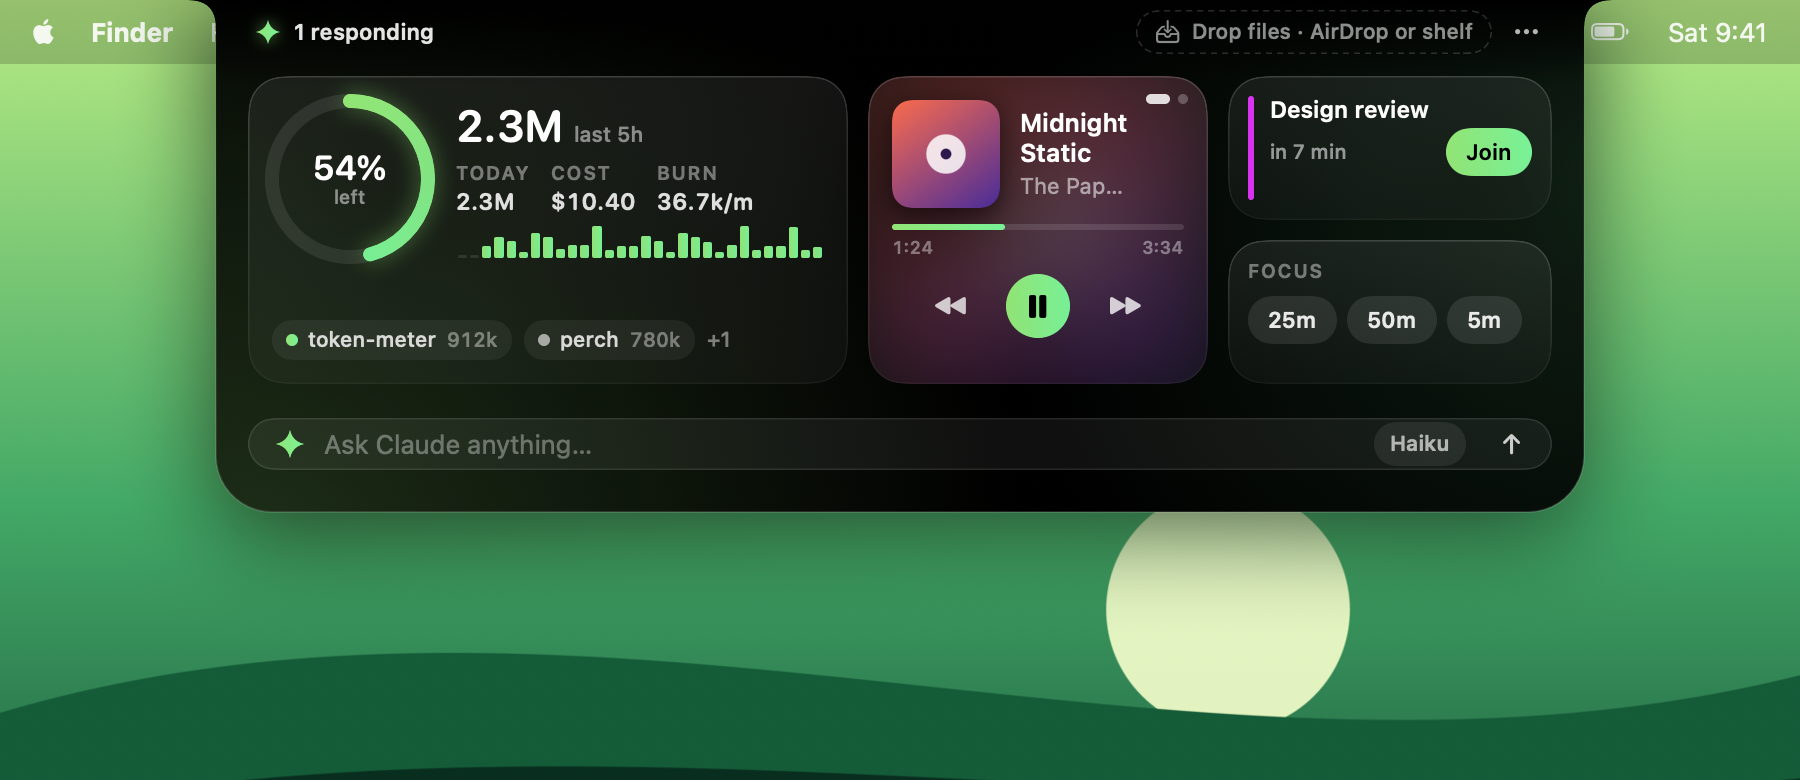
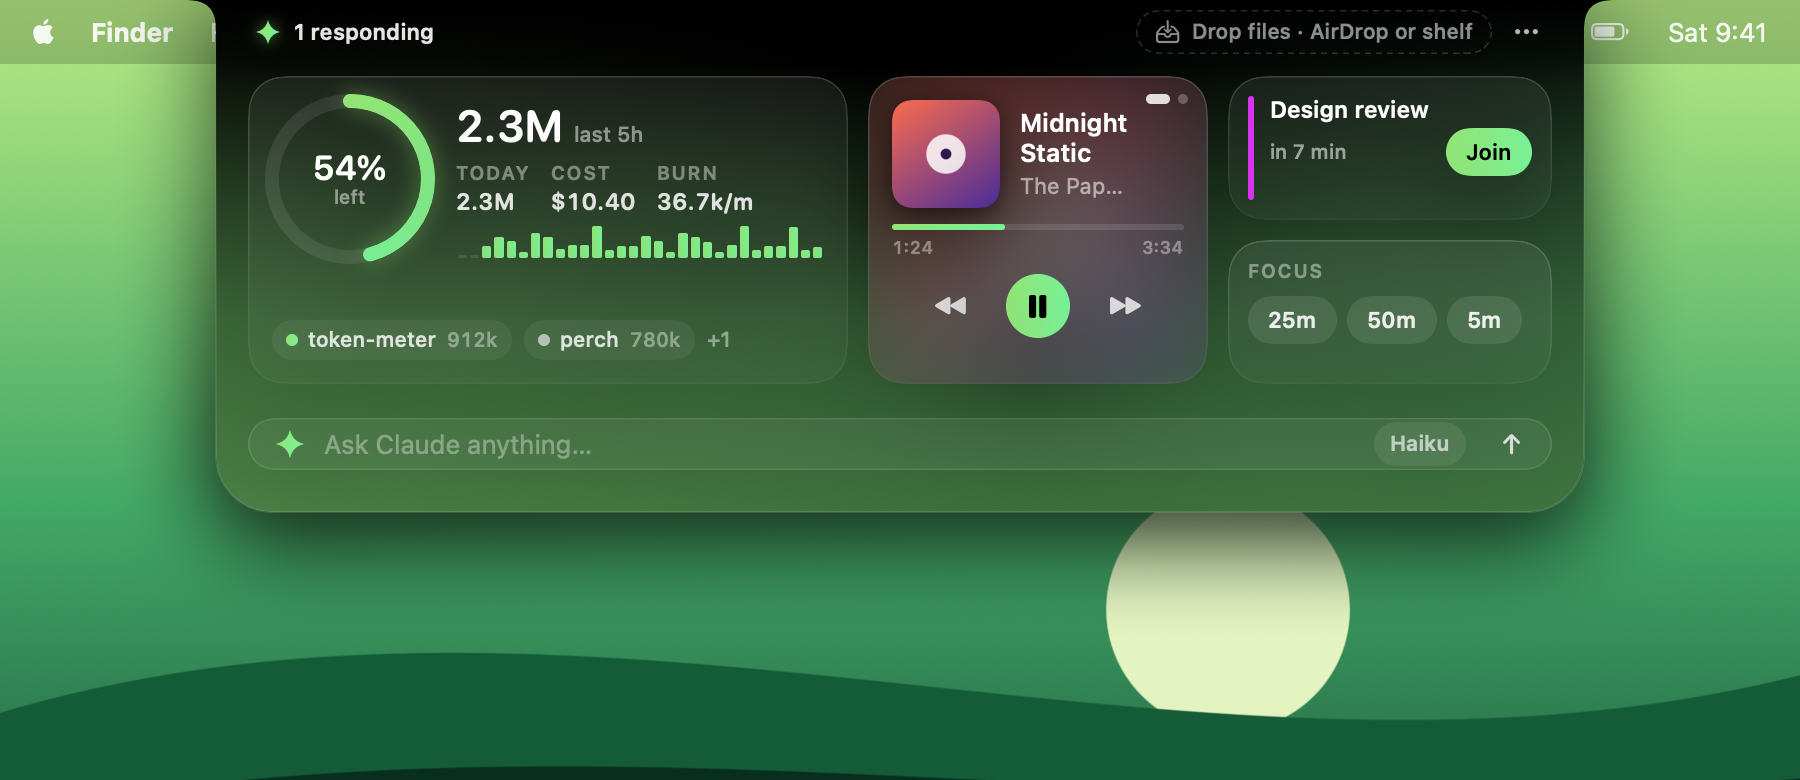
Auto theme: the open notch fades into the wallpaper's colour
Auto only recoloured small accents, so the open notch stayed black and
didn't look like it matched the desktop. It now stays black around the
hardware notch and fades into the wallpaper's own colour (the average of
the area just below the open notch, kept dark enough for white text)
toward its bottom edge. The closed notch stays black.

Build: assemble and sign the app in a temp folder. On an iCloud-synced
Desktop, Finder metadata lands on the new bundle between xattr -cr and
codesign, which then refuses it.

diff --git a/Sources/Perch/AutoPalette.swift b/Sources/Perch/AutoPalette.swift
@@ -10,6 +10,9 @@ final class AutoPalette {
 
     private(set) var accent = Color(red: 1.00, green: 0.55, blue: 0.32)
     private(set) var accent2 = Color(red: 1.00, green: 0.30, blue: 0.45)
+    /// The wallpaper's own colour just below the open notch (its average, kept dark enough for white text).
+    /// The open notch fades into it so it melts into the desktop.
+    private(set) var surface = Color(red: 0.16, green: 0.10, blue: 0.08)
 
     /// Whether the person picked a theme themselves (Auto included). Auto only reads a
     /// wallpaper kept in Desktop, Documents or Downloads when they chose it, because
@@ -48,11 +51,11 @@ final class AutoPalette {
         guard key != lastKey else { return }
         lastKey = key
         queue.async {
-            let pair = Self.palette(from: url)
+            let colors = Self.palette(from: url)
             DispatchQueue.main.async {
                 MainActor.assumeIsolated {
-                    guard let pair else { return self.useSystemAccent() }
-                    self.apply(pair.0, pair.1)
+                    guard let colors else { return self.useSystemAccent() }
+                    self.apply(colors)
                 }
             }
         }
@@ -63,29 +66,33 @@ final class AutoPalette {
         lastKey = "system"
         let c = NSColor.controlAccentColor.usingColorSpace(.deviceRGB) ?? .systemBlue
         let hsb = HSB(h: c.hueComponent, s: c.saturationComponent, b: c.brightnessComponent)
-        apply(Self.vivid(hsb), Self.vivid(HSB(h: (hsb.h + 0.08).truncatingRemainder(dividingBy: 1), s: hsb.s, b: hsb.b), second: true))
+        apply(Colors(a: Self.vivid(hsb), b: Self.vivid(HSB(h: (hsb.h + 0.08).truncatingRemainder(dividingBy: 1), s: hsb.s, b: hsb.b), second: true),
+                     surface: Self.surface(HSB(h: hsb.h, s: hsb.s * 0.6, b: 0.3))))
     }
 
-    private func apply(_ a: HSB, _ b: HSB) {
-        withAnimation(.easeInOut(duration: 0.9)) { set(a, b) }
+    private func apply(_ c: Colors) {
+        withAnimation(.easeInOut(duration: 0.9)) { set(c) }
     }
 
     /// Sets the colours directly (snapshots render from a sample wallpaper).
-    func set(_ a: HSB, _ b: HSB) {
-        accent = Color(hue: a.h, saturation: a.s, brightness: a.b)
-        accent2 = Color(hue: b.h, saturation: b.s, brightness: b.b)
+    func set(_ c: Colors) {
+        accent = Color(hue: c.a.h, saturation: c.a.s, brightness: c.a.b)
+        accent2 = Color(hue: c.b.h, saturation: c.b.s, brightness: c.b.b)
+        surface = Color(hue: c.surface.h, saturation: c.surface.s, brightness: c.surface.b)
     }
 
     /// Takes the colours from a picture, as `update()` does from the wallpaper. False if it has none to give.
     @discardableResult func set(from image: NSImage) -> Bool {
-        guard let cg = image.cgImage(forProposedRect: nil, context: nil, hints: nil), let pair = Self.palette(from: cg) else { return false }
-        set(pair.0, pair.1)
+        guard let cg = image.cgImage(forProposedRect: nil, context: nil, hints: nil), let c = Self.palette(from: cg) else { return false }
+        set(c)
         return true
     }
 
     // MARK: Colour extraction (pure, testable, runs off the main thread)
 
     struct HSB: Equatable { var h: Double; var s: Double; var b: Double }
+    /// Two accents and the surface colour.
+    struct Colors: Equatable { var a: HSB; var b: HSB; var surface: HSB }
 
     nonisolated static func isProtected(_ url: URL) -> Bool {
         let home = FileManager.default.homeDirectoryForCurrentUser.path
@@ -93,7 +100,7 @@ final class AutoPalette {
         return protected.contains { url.path.hasPrefix($0) } || url.path.hasPrefix("/Volumes/")
     }
 
-    nonisolated static func palette(from url: URL) -> (HSB, HSB)? {
+    nonisolated static func palette(from url: URL) -> Colors? {
         guard let src = CGImageSourceCreateWithURL(url as CFURL, nil),
               let img = CGImageSourceCreateThumbnailAtIndex(src, 0, [kCGImageSourceCreateThumbnailFromImageAlways: true,
                                                                       kCGImageSourceCreateThumbnailWithTransform: true,
@@ -104,7 +111,7 @@ final class AutoPalette {
 
     /// Dominant hues of the top-centre strip (where the menu bar and notch sit), falling
     /// back to the whole picture when that strip is grey.
-    nonisolated static func palette(from img: CGImage) -> (HSB, HSB)? {
+    nonisolated static func palette(from img: CGImage) -> Colors? {
         let w = img.width, h = img.height
         guard w > 0, h > 0 else { return nil }
         var px = [UInt8](repeating: 0, count: w * h * 4)
@@ -118,9 +125,30 @@ final class AutoPalette {
         guard drawn else { return nil }
         // Row 0 of the buffer is the top of the picture.
         let top = histogram(px, w: w, rows: 0..<max(1, h * 35 / 100), cols: (w * 20 / 100)..<max(w * 20 / 100 + 1, w * 80 / 100))
-        if let pair = pick(top) { return pair }
+        // The open notch reaches about a quarter to a third of the way down the screen: blend toward what's there.
+        let under = surface(average(px, w: w, rows: (h * 20 / 100)..<max(h * 20 / 100 + 1, h * 40 / 100),
+                                    cols: (w * 25 / 100)..<max(w * 25 / 100 + 1, w * 75 / 100)))
+        if let pair = pick(top) { return Colors(a: pair.0, b: pair.1, surface: under) }
         let all = histogram(px, w: w, rows: 0..<h, cols: 0..<w)
-        return pick(all) ?? neutral(all)
+        let pair = pick(all) ?? neutral(all)
+        return Colors(a: pair.0, b: pair.1, surface: under)
+    }
+
+    /// Mean colour of a region, as HSB.
+    nonisolated static func average(_ px: [UInt8], w: Int, rows: Range<Int>, cols: Range<Int>) -> HSB {
+        var r = 0.0, g = 0.0, b = 0.0, n = 0.0
+        for y in rows { for x in cols {
+            let i = (y * w + x) * 4
+            r += Double(px[i]); g += Double(px[i + 1]); b += Double(px[i + 2]); n += 1
+        } }
+        guard n > 0 else { return HSB(h: 0, s: 0, b: 0.2) }
+        let c = NSColor(srgbRed: r / n / 255, green: g / n / 255, blue: b / n / 255, alpha: 1)
+        return HSB(h: c.hueComponent, s: c.saturationComponent, b: c.brightnessComponent)
+    }
+
+    /// Dark enough that white text stays readable on it, with a little more colour so it reads as the wallpaper.
+    nonisolated static func surface(_ c: HSB) -> HSB {
+        HSB(h: c.h, s: min(c.s * 1.1, 0.75), b: min(max(c.b * 0.62, 0.16), 0.46))
     }
 
     struct Histogram { var weight = [Double](repeating: 0, count: 36); var s = [Double](repeating: 0, count: 36)

diff --git a/Sources/Perch/RootView.swift b/Sources/Perch/RootView.swift
@@ -61,6 +61,14 @@ struct NotchBackground: View {
     var body: some View {
         ZStack {
             Color.black
+            if expanded && theme == .auto {
+                // Auto: black around the hardware notch, fading into the wallpaper's own colour toward the bottom
+                // edge, so the open notch melts into the desktop below it.
+                LinearGradient(stops: [.init(color: AutoPalette.shared.surface.opacity(0), location: 0.12),
+                                       .init(color: AutoPalette.shared.surface.opacity(0.7), location: 0.62),
+                                       .init(color: AutoPalette.shared.surface.opacity(0.95), location: 1)],
+                               startPoint: .top, endPoint: .bottom)
+            }
             if expanded {
                 RadialGradient(colors: [theme.accent.opacity(0.20), .clear], center: UnitPoint(x: 0.05, y: 1.05),
                                startRadius: 0, endRadius: 380)

diff --git a/README.md b/README.md
@@ -78,8 +78,9 @@ macOS doesn't let apps change Focus directly, so this goes through two small sho
 Perch remembers a running session, so quitting Perch, a crash or sleep can't leave Do Not Disturb stuck on.
 
 ### Themes
-**Auto** (the default) takes its colours from your wallpaper, so the glow, rings and buttons match your desktop.
-It picks the strongest colours in the strip of wallpaper behind the menu bar and brightens them to glow on black,
+**Auto** (the default) takes its colours from your wallpaper, so the open notch blends into your desktop: it stays
+black around the hardware notch and fades into the wallpaper's own colour toward its bottom edge, while the glow,
+rings and buttons take the wallpaper's strongest colours, brightened to glow on black. It looks at the strip of wallpaper behind the menu bar,
 and it follows you when you change wallpapers or switch to a Space with a different one. It reads the wallpaper file
 only, so it needs no Screen Recording permission. For a dynamic or aerial wallpaper with no picture file, it uses
 your Mac's accent colour.
